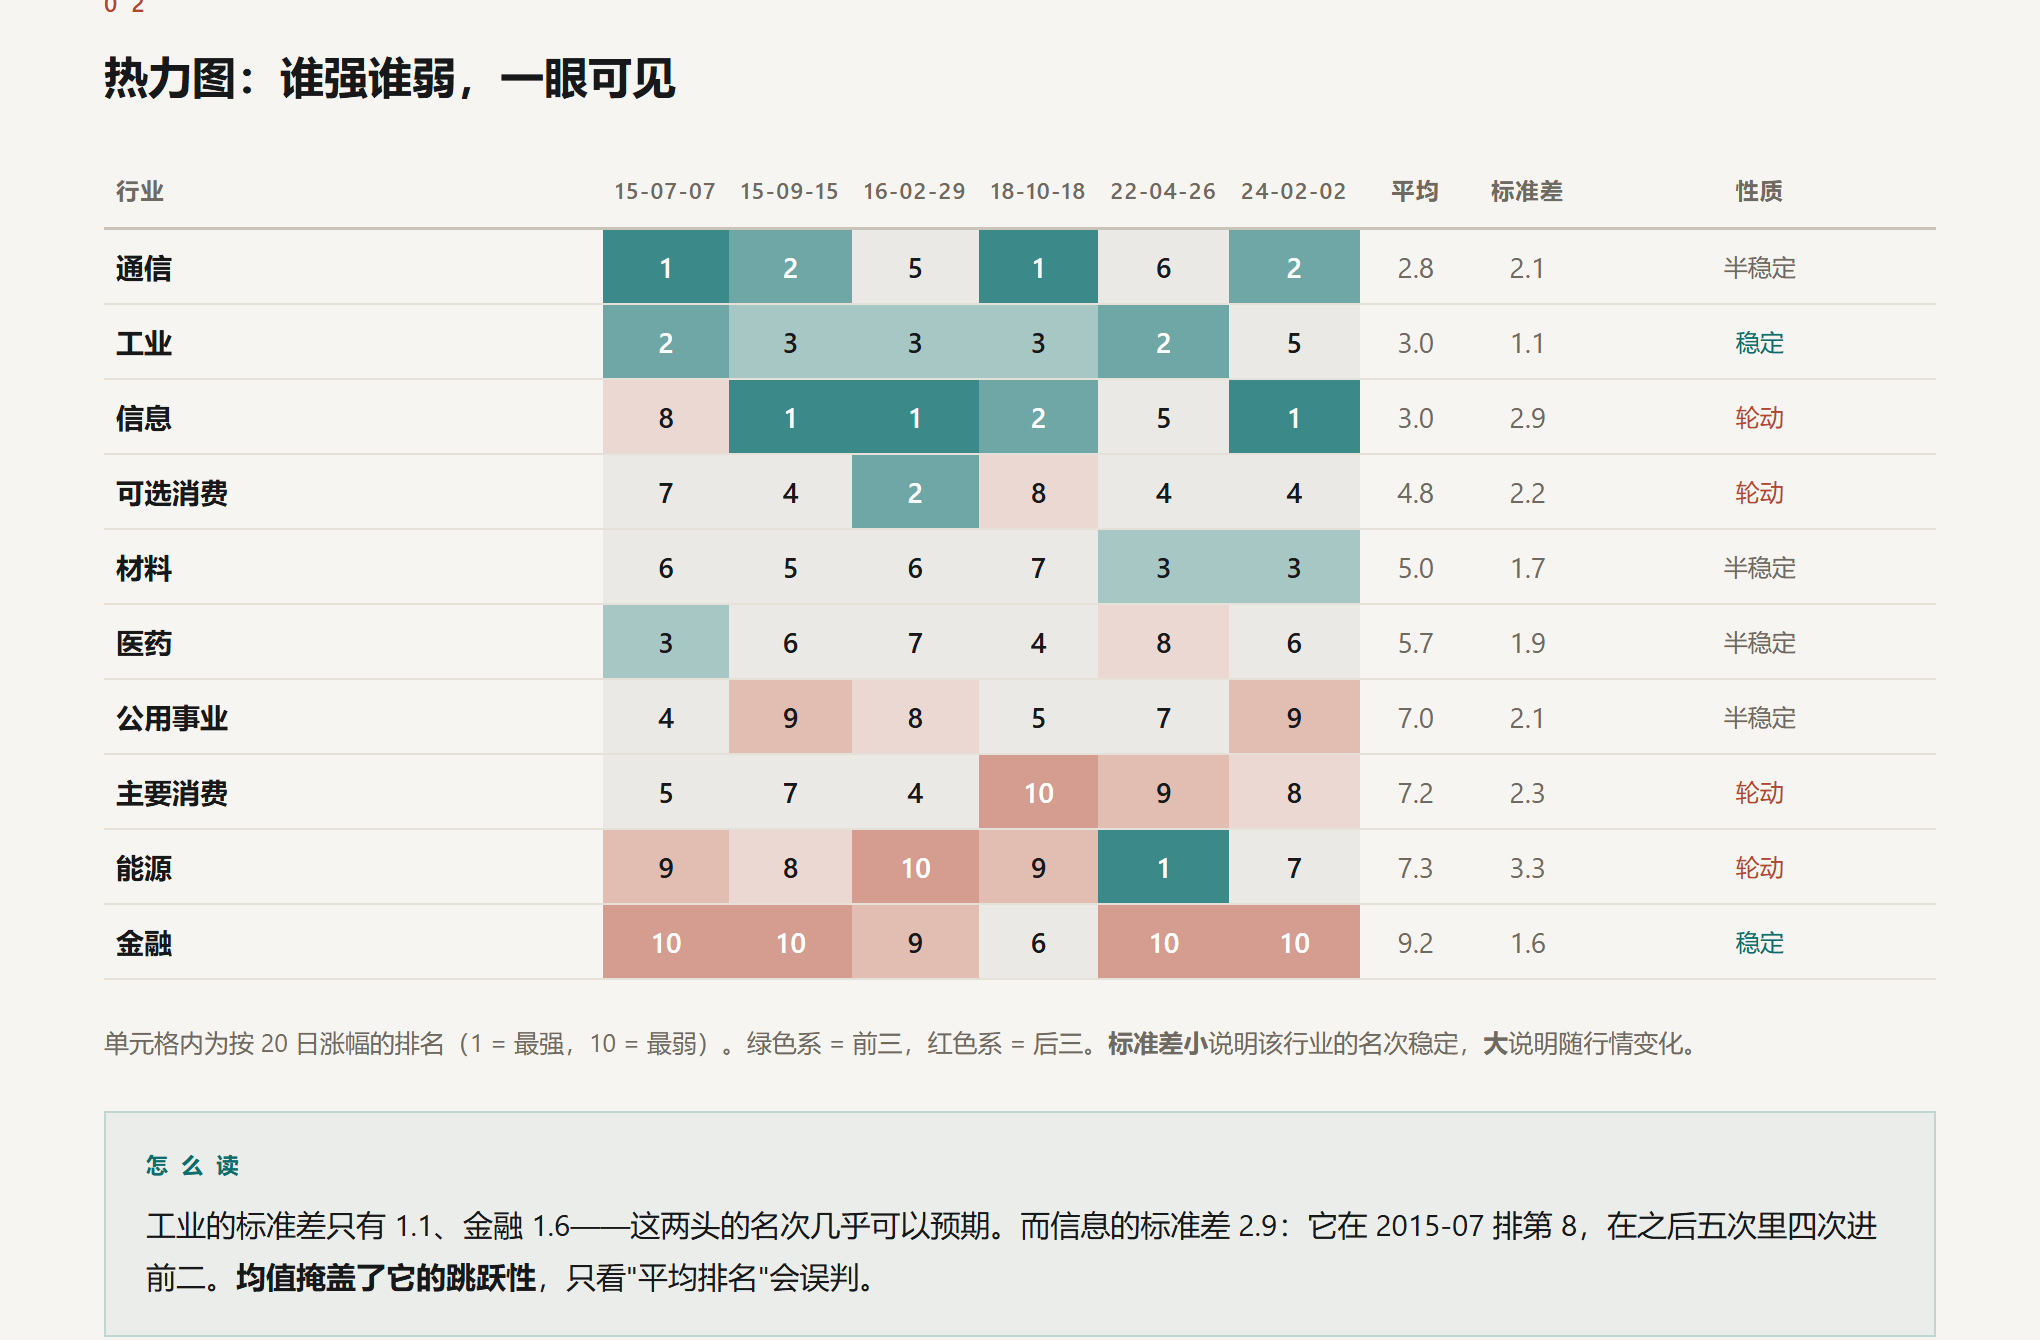
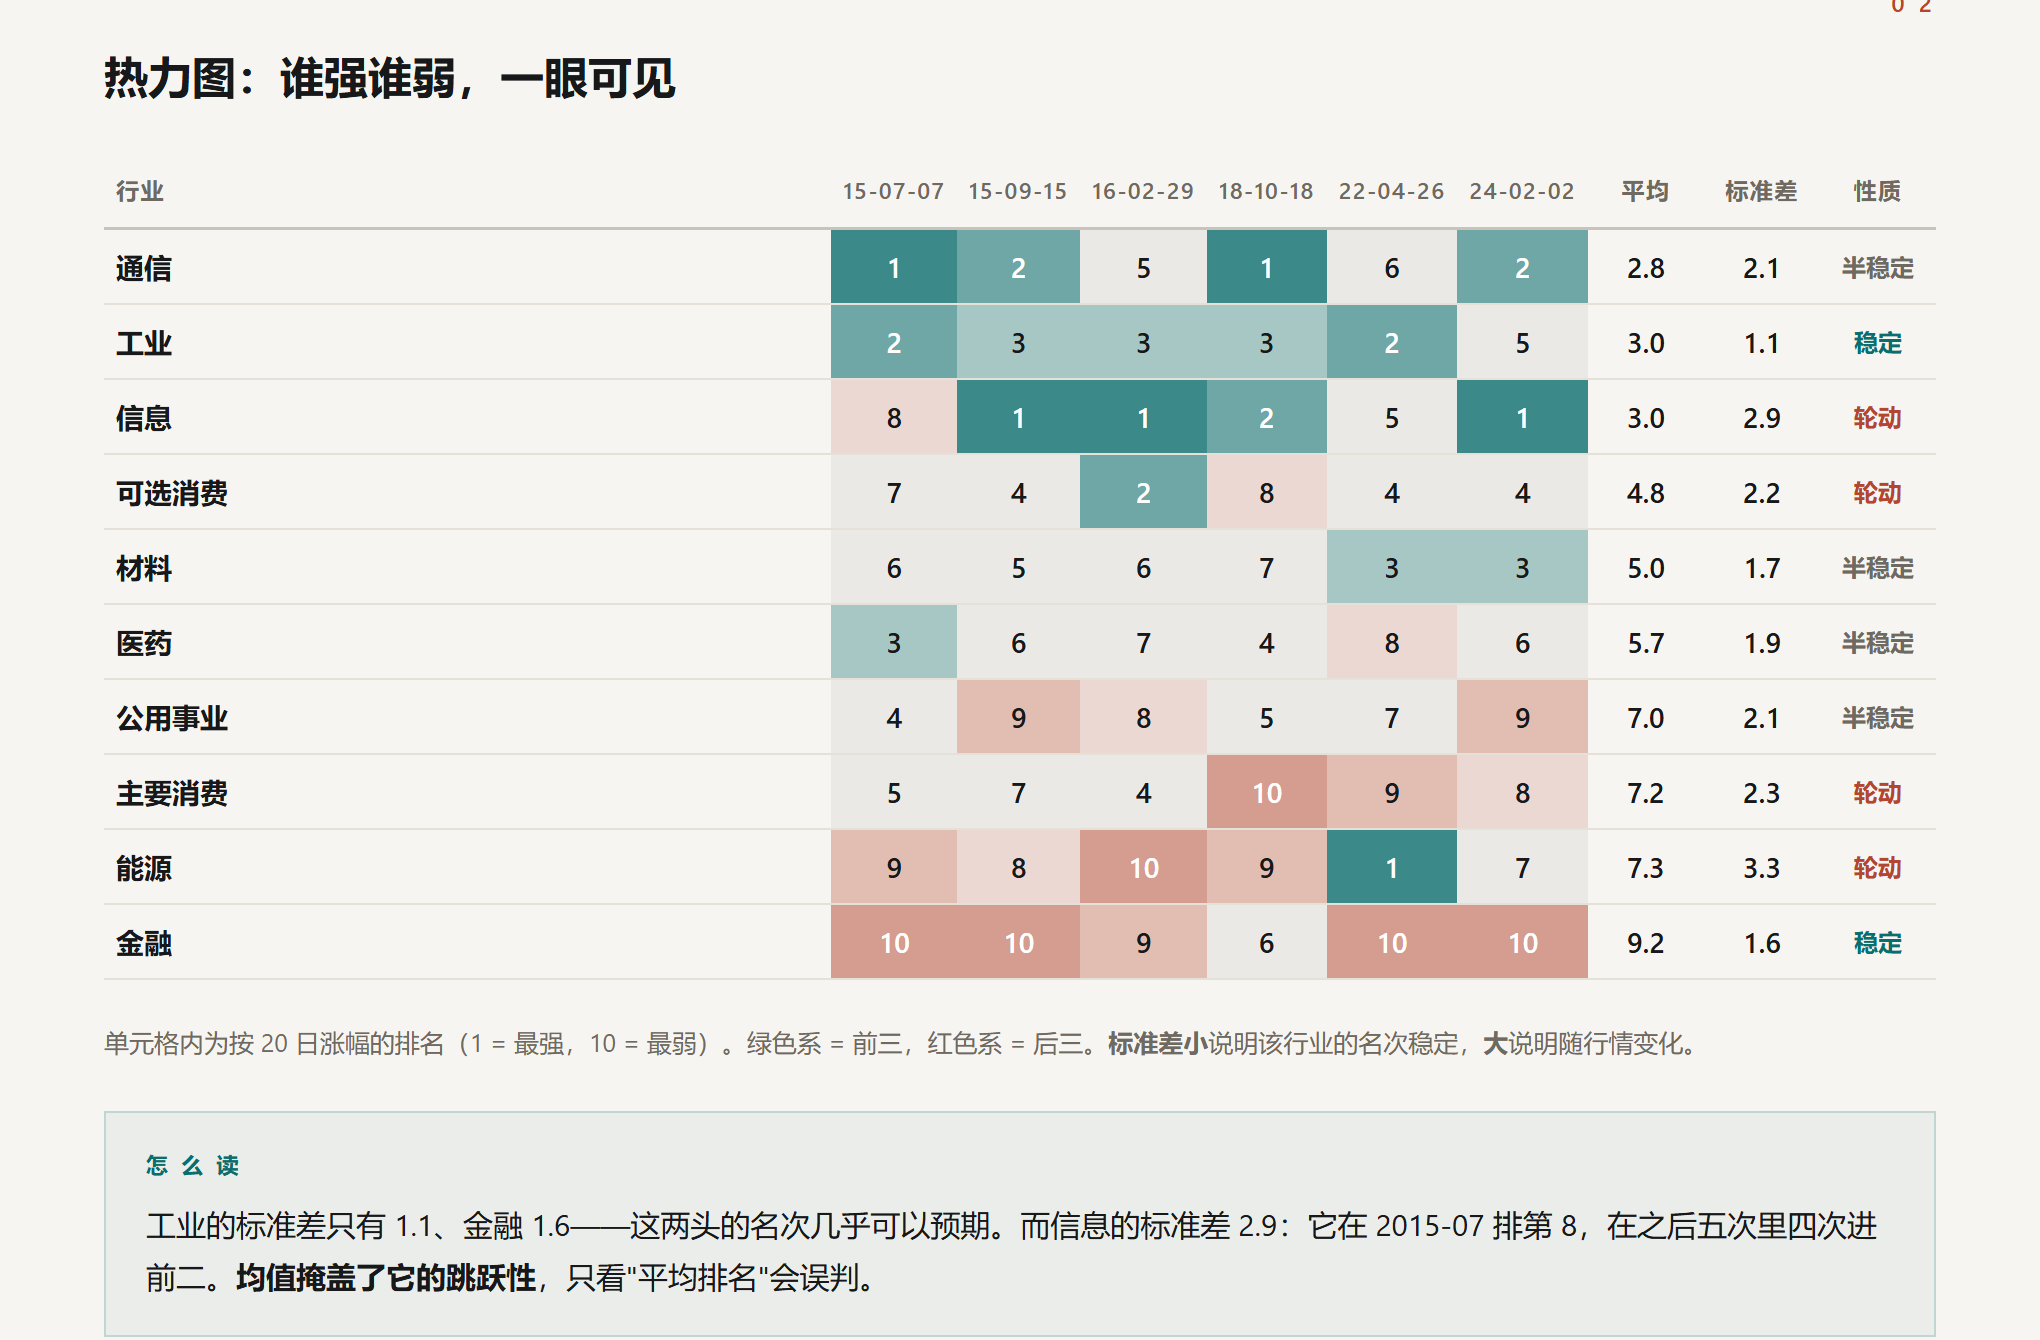
fix: 修复表格表头与内容不对齐（第二次复发）
根因：CSS 里 th:not(:first-child){text-align:center} 是隐式规则，
特异性高于 .num，把数值列的 th.num 覆盖成居中，而单元格是右对齐。

- 删除所有 th 的隐式对齐规则，改为「类名唯一决定对齐」：
  .num=右、.ctr=中、无类=左，th 与 td 共用同一组类
- 热力图各列显式加 ctr 类（表头与单元格同时命中）
- 新增 scripts/check_table_align.py：按对齐类别逐列比对 th/td，
  防止同类问题再次复发（三个文档 11 张表当前全部通过）

diff --git a/out/行业反弹顺序_2026-11.html b/out/行业反弹顺序_2026-11.html
@@ -22,15 +22,16 @@ p{margin:13px 0}
 .warn{background:rgba(166,124,31,.07);border:1px solid rgba(166,124,31,.25);padding:16px 20px;margin:22px 0;font-size:15px}
 .warn .h{font-size:11px;letter-spacing:.16em;color:#7d5c14;margin-bottom:7px;font-weight:600}
 table{width:100%;border-collapse:collapse;margin:20px 0;font-size:14px}
+/* 对齐只由类名决定：.num=右、.ctr=中、无类=左。
+   不要再写 th:not(:first-child) 这类隐式规则，否则会覆盖 th.num。 */
 th{text-align:left;font-size:11.5px;letter-spacing:.06em;color:#6f6a61;font-weight:600;
  border-bottom:1.5px solid #c9c3b9;padding:8px 6px;white-space:nowrap}
-th:not(:first-child){text-align:center}
 td{padding:6px;border-bottom:1px solid #e6e1d8;font-variant-numeric:tabular-nums}
 td.nm{font-weight:600;white-space:nowrap}
-td.num{text-align:right;white-space:nowrap}
-table.hm td:not(.nm):not(.avg):not(.sd):not(.tag-s):not(.tag-r):not(.tag-m){
- text-align:center;width:58px;font-weight:600;color:#17181a}
-table.hm td.avg,table.hm td.sd{text-align:center;color:#6f6a61;width:56px}
+.num{text-align:right;white-space:nowrap}
+.ctr{text-align:center}
+table.hm .ctr{width:58px}
+table.hm td.ctr{font-weight:600}
 .r1{background:rgba(11,110,110,.80);color:#fff!important}
 .r2{background:rgba(11,110,110,.58);color:#fff!important}
 .r3{background:rgba(11,110,110,.34);color:#17181a!important}
@@ -86,8 +87,8 @@ footer{border-top:1px solid #d9d4cb;margin-top:56px;padding-top:20px;font-size:1
 
 <h2><span class="num">0 2</span>热力图：谁强谁弱，一眼可见</h2>
 <table class="hm">
-<thead><tr><th>行业</th><th>15-07-07</th><th>15-09-15</th><th>16-02-29</th><th>18-10-18</th><th>22-04-26</th><th>24-02-02</th><th>平均</th><th>标准差</th><th>性质</th></tr></thead>
-<tbody><tr><td class="nm">通信</td><td class="r1">1</td><td class="r2">2</td><td class="r5">5</td><td class="r1">1</td><td class="r6">6</td><td class="r2">2</td><td class="avg">2.8</td><td class="sd">2.1</td><td class="tag-m">半稳定</td></tr><tr><td class="nm">工业</td><td class="r2">2</td><td class="r3">3</td><td class="r3">3</td><td class="r3">3</td><td class="r2">2</td><td class="r5">5</td><td class="avg">3.0</td><td class="sd">1.1</td><td class="tag-s">稳定</td></tr><tr><td class="nm">信息</td><td class="r8">8</td><td class="r1">1</td><td class="r1">1</td><td class="r2">2</td><td class="r5">5</td><td class="r1">1</td><td class="avg">3.0</td><td class="sd">2.9</td><td class="tag-r">轮动</td></tr><tr><td class="nm">可选消费</td><td class="r7">7</td><td class="r4">4</td><td class="r2">2</td><td class="r8">8</td><td class="r4">4</td><td class="r4">4</td><td class="avg">4.8</td><td class="sd">2.2</td><td class="tag-r">轮动</td></tr><tr><td class="nm">材料</td><td class="r6">6</td><td class="r5">5</td><td class="r6">6</td><td class="r7">7</td><td class="r3">3</td><td class="r3">3</td><td class="avg">5.0</td><td class="sd">1.7</td><td class="tag-m">半稳定</td></tr><tr><td class="nm">医药</td><td class="r3">3</td><td class="r6">6</td><td class="r7">7</td><td class="r4">4</td><td class="r8">8</td><td class="r6">6</td><td class="avg">5.7</td><td class="sd">1.9</td><td class="tag-m">半稳定</td></tr><tr><td class="nm">公用事业</td><td class="r4">4</td><td class="r9">9</td><td class="r8">8</td><td class="r5">5</td><td class="r7">7</td><td class="r9">9</td><td class="avg">7.0</td><td class="sd">2.1</td><td class="tag-m">半稳定</td></tr><tr><td class="nm">主要消费</td><td class="r5">5</td><td class="r7">7</td><td class="r4">4</td><td class="r10">10</td><td class="r9">9</td><td class="r8">8</td><td class="avg">7.2</td><td class="sd">2.3</td><td class="tag-r">轮动</td></tr><tr><td class="nm">能源</td><td class="r9">9</td><td class="r8">8</td><td class="r10">10</td><td class="r9">9</td><td class="r1">1</td><td class="r7">7</td><td class="avg">7.3</td><td class="sd">3.3</td><td class="tag-r">轮动</td></tr><tr><td class="nm">金融</td><td class="r10">10</td><td class="r10">10</td><td class="r9">9</td><td class="r6">6</td><td class="r10">10</td><td class="r10">10</td><td class="avg">9.2</td><td class="sd">1.6</td><td class="tag-s">稳定</td></tr></tbody></table>
+<thead><tr><th>行业</th><th class="ctr">15-07-07</th><th class="ctr">15-09-15</th><th class="ctr">16-02-29</th><th class="ctr">18-10-18</th><th class="ctr">22-04-26</th><th class="ctr">24-02-02</th><th class="ctr">平均</th><th class="ctr">标准差</th><th class="ctr">性质</th></tr></thead>
+<tbody><tr><td class="nm">通信</td><td class="ctr r1">1</td><td class="ctr r2">2</td><td class="ctr r5">5</td><td class="ctr r1">1</td><td class="ctr r6">6</td><td class="ctr r2">2</td><td class="ctr">2.8</td><td class="ctr">2.1</td><td class="ctr tag-m">半稳定</td></tr><tr><td class="nm">工业</td><td class="ctr r2">2</td><td class="ctr r3">3</td><td class="ctr r3">3</td><td class="ctr r3">3</td><td class="ctr r2">2</td><td class="ctr r5">5</td><td class="ctr">3.0</td><td class="ctr">1.1</td><td class="ctr tag-s">稳定</td></tr><tr><td class="nm">信息</td><td class="ctr r8">8</td><td class="ctr r1">1</td><td class="ctr r1">1</td><td class="ctr r2">2</td><td class="ctr r5">5</td><td class="ctr r1">1</td><td class="ctr">3.0</td><td class="ctr">2.9</td><td class="ctr tag-r">轮动</td></tr><tr><td class="nm">可选消费</td><td class="ctr r7">7</td><td class="ctr r4">4</td><td class="ctr r2">2</td><td class="ctr r8">8</td><td class="ctr r4">4</td><td class="ctr r4">4</td><td class="ctr">4.8</td><td class="ctr">2.2</td><td class="ctr tag-r">轮动</td></tr><tr><td class="nm">材料</td><td class="ctr r6">6</td><td class="ctr r5">5</td><td class="ctr r6">6</td><td class="ctr r7">7</td><td class="ctr r3">3</td><td class="ctr r3">3</td><td class="ctr">5.0</td><td class="ctr">1.7</td><td class="ctr tag-m">半稳定</td></tr><tr><td class="nm">医药</td><td class="ctr r3">3</td><td class="ctr r6">6</td><td class="ctr r7">7</td><td class="ctr r4">4</td><td class="ctr r8">8</td><td class="ctr r6">6</td><td class="ctr">5.7</td><td class="ctr">1.9</td><td class="ctr tag-m">半稳定</td></tr><tr><td class="nm">公用事业</td><td class="ctr r4">4</td><td class="ctr r9">9</td><td class="ctr r8">8</td><td class="ctr r5">5</td><td class="ctr r7">7</td><td class="ctr r9">9</td><td class="ctr">7.0</td><td class="ctr">2.1</td><td class="ctr tag-m">半稳定</td></tr><tr><td class="nm">主要消费</td><td class="ctr r5">5</td><td class="ctr r7">7</td><td class="ctr r4">4</td><td class="ctr r10">10</td><td class="ctr r9">9</td><td class="ctr r8">8</td><td class="ctr">7.2</td><td class="ctr">2.3</td><td class="ctr tag-r">轮动</td></tr><tr><td class="nm">能源</td><td class="ctr r9">9</td><td class="ctr r8">8</td><td class="ctr r10">10</td><td class="ctr r9">9</td><td class="ctr r1">1</td><td class="ctr r7">7</td><td class="ctr">7.3</td><td class="ctr">3.3</td><td class="ctr tag-r">轮动</td></tr><tr><td class="nm">金融</td><td class="ctr r10">10</td><td class="ctr r10">10</td><td class="ctr r9">9</td><td class="ctr r6">6</td><td class="ctr r10">10</td><td class="ctr r10">10</td><td class="ctr">9.2</td><td class="ctr">1.6</td><td class="ctr tag-s">稳定</td></tr></tbody></table>
 <p class="cap">单元格内为按 20 日涨幅的排名（1 = 最强，10 = 最弱）。绿色系 = 前三，红色系 = 后三。<b>标准差小</b>说明该行业的名次稳定，<b>大</b>说明随行情变化。</p>
 
 <div class="note">

diff --git a/scripts/build_sector_report.py b/scripts/build_sector_report.py
@@ -91,11 +91,11 @@ def cell_class(r):
 
 rows_hm = ""
 for nm in avg.index:
-    cells = "".join('<td class="%s">%d</td>' % (cell_class(rt.loc[nm, c]), rt.loc[nm, c]) for c in rt.columns)
+    cells = "".join('<td class="ctr %s">%d</td>' % (cell_class(rt.loc[nm, c]), rt.loc[nm, c]) for c in rt.columns)
     tag = "稳定" if sd[nm] <= 1.65 else ("轮动" if sd[nm] >= 2.2 else "半稳定")
     cls = "tag-s" if tag == "稳定" else ("tag-r" if tag == "轮动" else "tag-m")
-    rows_hm += ('<tr><td class="nm">%s</td>%s<td class="avg">%.1f</td>'
-                '<td class="sd">%.1f</td><td class="%s">%s</td></tr>'
+    rows_hm += ('<tr><td class="nm">%s</td>%s<td class="ctr">%.1f</td>'
+                '<td class="ctr">%.1f</td><td class="ctr %s">%s</td></tr>'
                 % (nm, cells, avg[nm], sd[nm], cls, tag))
 
 rows_era = ""
@@ -114,7 +114,7 @@ for nm in SECTORS + NEWB:
                  % (star.strip(), nm, "%d" % a if not np.isnan(a) else "—",
                     "%d" % b if not np.isnan(b) else "—"))
 
-collist = "".join("<th>%s</th>" % c[2:] for c in rt.columns)
+collist = "".join('<th class="ctr">%s</th>' % c[2:] for c in rt.columns)
 nbot = len(rt.columns)
 
 html = f"""<!DOCTYPE html>
@@ -141,15 +141,16 @@ p{{margin:13px 0}}
 .warn{{background:rgba(166,124,31,.07);border:1px solid rgba(166,124,31,.25);padding:16px 20px;margin:22px 0;font-size:15px}}
 .warn .h{{font-size:11px;letter-spacing:.16em;color:#7d5c14;margin-bottom:7px;font-weight:600}}
 table{{width:100%;border-collapse:collapse;margin:20px 0;font-size:14px}}
+/* 对齐只由类名决定：.num=右、.ctr=中、无类=左。
+   不要再写 th:not(:first-child) 这类隐式规则，否则会覆盖 th.num。 */
 th{{text-align:left;font-size:11.5px;letter-spacing:.06em;color:{MUTED};font-weight:600;
  border-bottom:1.5px solid #c9c3b9;padding:8px 6px;white-space:nowrap}}
-th:not(:first-child){{text-align:center}}
 td{{padding:6px;border-bottom:1px solid #e6e1d8;font-variant-numeric:tabular-nums}}
 td.nm{{font-weight:600;white-space:nowrap}}
-td.num{{text-align:right;white-space:nowrap}}
-table.hm td:not(.nm):not(.avg):not(.sd):not(.tag-s):not(.tag-r):not(.tag-m){{
- text-align:center;width:58px;font-weight:600;color:{INK}}}
-table.hm td.avg,table.hm td.sd{{text-align:center;color:{MUTED};width:56px}}
+.num{{text-align:right;white-space:nowrap}}
+.ctr{{text-align:center}}
+table.hm .ctr{{width:58px}}
+table.hm td.ctr{{font-weight:600}}
 .r1{{background:rgba(11,110,110,.80);color:#fff!important}}
 .r2{{background:rgba(11,110,110,.58);color:#fff!important}}
 .r3{{background:rgba(11,110,110,.34);color:{INK}!important}}
@@ -205,7 +206,7 @@ footer{{border-top:1px solid {RULE};margin-top:56px;padding-top:20px;font-size:1
 
 <h2><span class="num">0 2</span>热力图：谁强谁弱，一眼可见</h2>
 <table class="hm">
-<thead><tr><th>行业</th>{collist}<th>平均</th><th>标准差</th><th>性质</th></tr></thead>
+<thead><tr><th>行业</th>{collist}<th class="ctr">平均</th><th class="ctr">标准差</th><th class="ctr">性质</th></tr></thead>
 <tbody>{rows_hm}</tbody></table>
 <p class="cap">单元格内为按 20 日涨幅的排名（1 = 最强，10 = 最弱）。绿色系 = 前三，红色系 = 后三。<b>标准差小</b>说明该行业的名次稳定，<b>大</b>说明随行情变化。</p>
 

diff --git a/scripts/check_table_align.py b/scripts/check_table_align.py
@@ -1,0 +1,66 @@
+# -*- coding: utf-8 -*-
+"""表头/单元格对齐检查器 v2。
+
+把 th / td 的 class 归类为三种对齐意图：
+  num  -> 右对齐
+  ctr  -> 居中（含 ctr / tag-* / 热力图 r1..r10）
+  txt  -> 左对齐（无类）
+逐列比较表头与单元格的对齐意图，不一致即报错。
+"""
+import re
+import lxml.html as LH
+
+DEFAULT_FILES = [
+    r"C:\SuoJianfei\deepseekharness\default\创业板反弹概率研究_2026-10\out\创业板反弹概率_快速版_2026-10.html",
+    r"C:\SuoJianfei\deepseekharness\default\创业板反弹概率研究_2026-10\out\创业板反弹概率预测方案_2026-10.html",
+    r"C:\SuoJianfei\deepseekharness\default\创业板反弹概率研究_2026-10\out\行业反弹顺序_2026-11.html",
+]
+
+
+def cat(cls):
+    cls = cls or ""
+    parts = cls.split()
+    if "num" in parts:
+        return "num"
+    if "ctr" in parts:
+        return "ctr"
+    if any(p.startswith("tag-") for p in parts):
+        return "ctr"
+    if any(re.fullmatch(r"r\d+", p) for p in parts):
+        return "ctr"
+    return "txt"
+
+
+def check(path):
+    doc = LH.parse(path).getroot()
+    name = path.split("\\")[-1]
+    print("\n==", name)
+    issues = 0
+    for ti, t in enumerate(doc.iter("table")):
+        heads = t.xpath(".//thead//th")
+        rows = t.xpath(".//tbody/tr")
+        if not heads:
+            continue
+        bad = []
+        for ci, th in enumerate(heads):
+            h = cat(th.get("class"))
+            tcats = set()
+            for r in rows:
+                tds = r.findall("td")
+                if ci < len(tds):
+                    tcats.add(cat(tds[ci].get("class")))
+            for c in tcats:
+                if c != h:
+                    bad.append((ci + 1, (th.text or "").strip()[:12], h, c))
+                    break
+        status = "OK" if not bad else "MISMATCH"
+        print("   table%d  %d列 x %d行  %s" % (ti, len(heads), len(rows), status))
+        if bad:
+            issues += len(bad)
+            for ci, txt, h, c in bad:
+                print("      第 %d 列「%s」: 表头=%s, 内容=%s" % (ci, txt, h, c))
+    return issues
+
+
+total = sum(check(p) for p in DEFAULT_FILES)
+print("\n" + ("全部对齐 ✓" if total == 0 else "共 %d 处不一致 ✗" % total))

diff --git a/README.md b/README.md
@@ -85,7 +85,8 @@ python scripts/build_share_card.py
 ```
 
 辅助脚本：`recon.py`（跌幅与样本量侦察）、`check_drawdowns.py`（回撤排名核对）、
-`diagnose_c5.py`（C5 无先例的边界诊断）、`near_neighbors.py`（最近邻时点前瞻）。
+`diagnose_c5.py`（C5 无先例的边界诊断）、`near_neighbors.py`（最近邻时点前瞻）、
+`check_table_align.py`（表头/单元格对齐自检，改过 CSS 后跑一次）。
 
 ---
 
